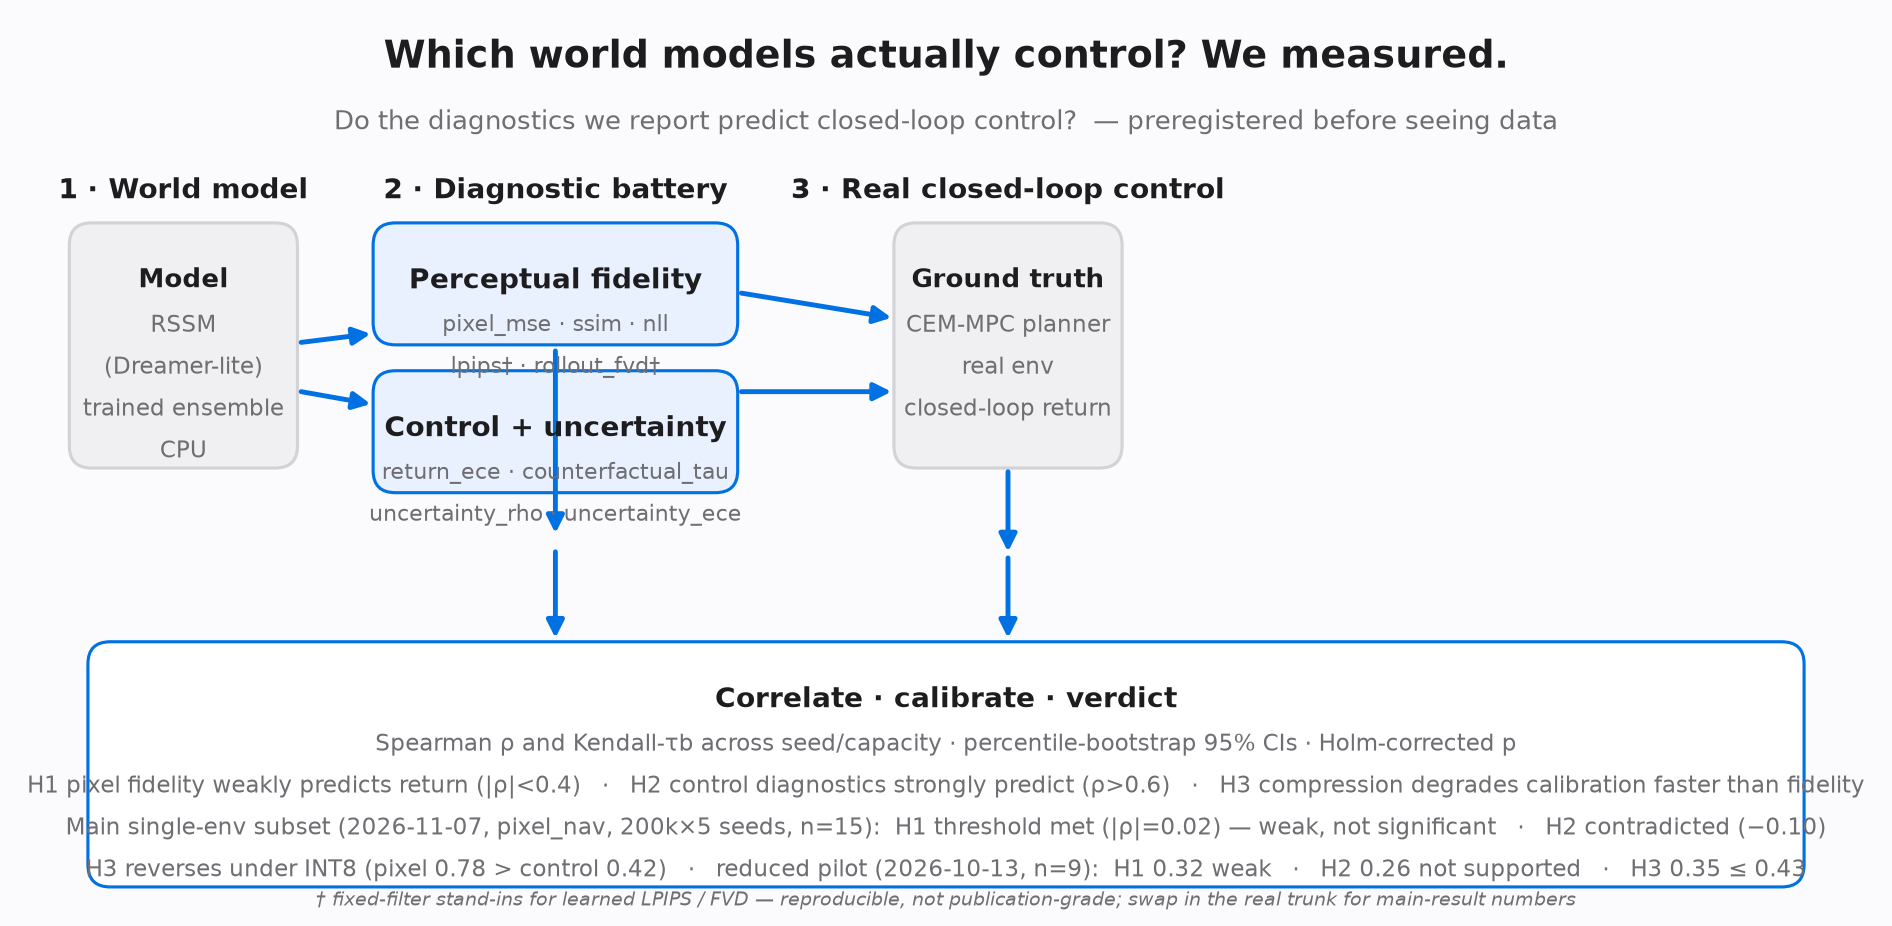
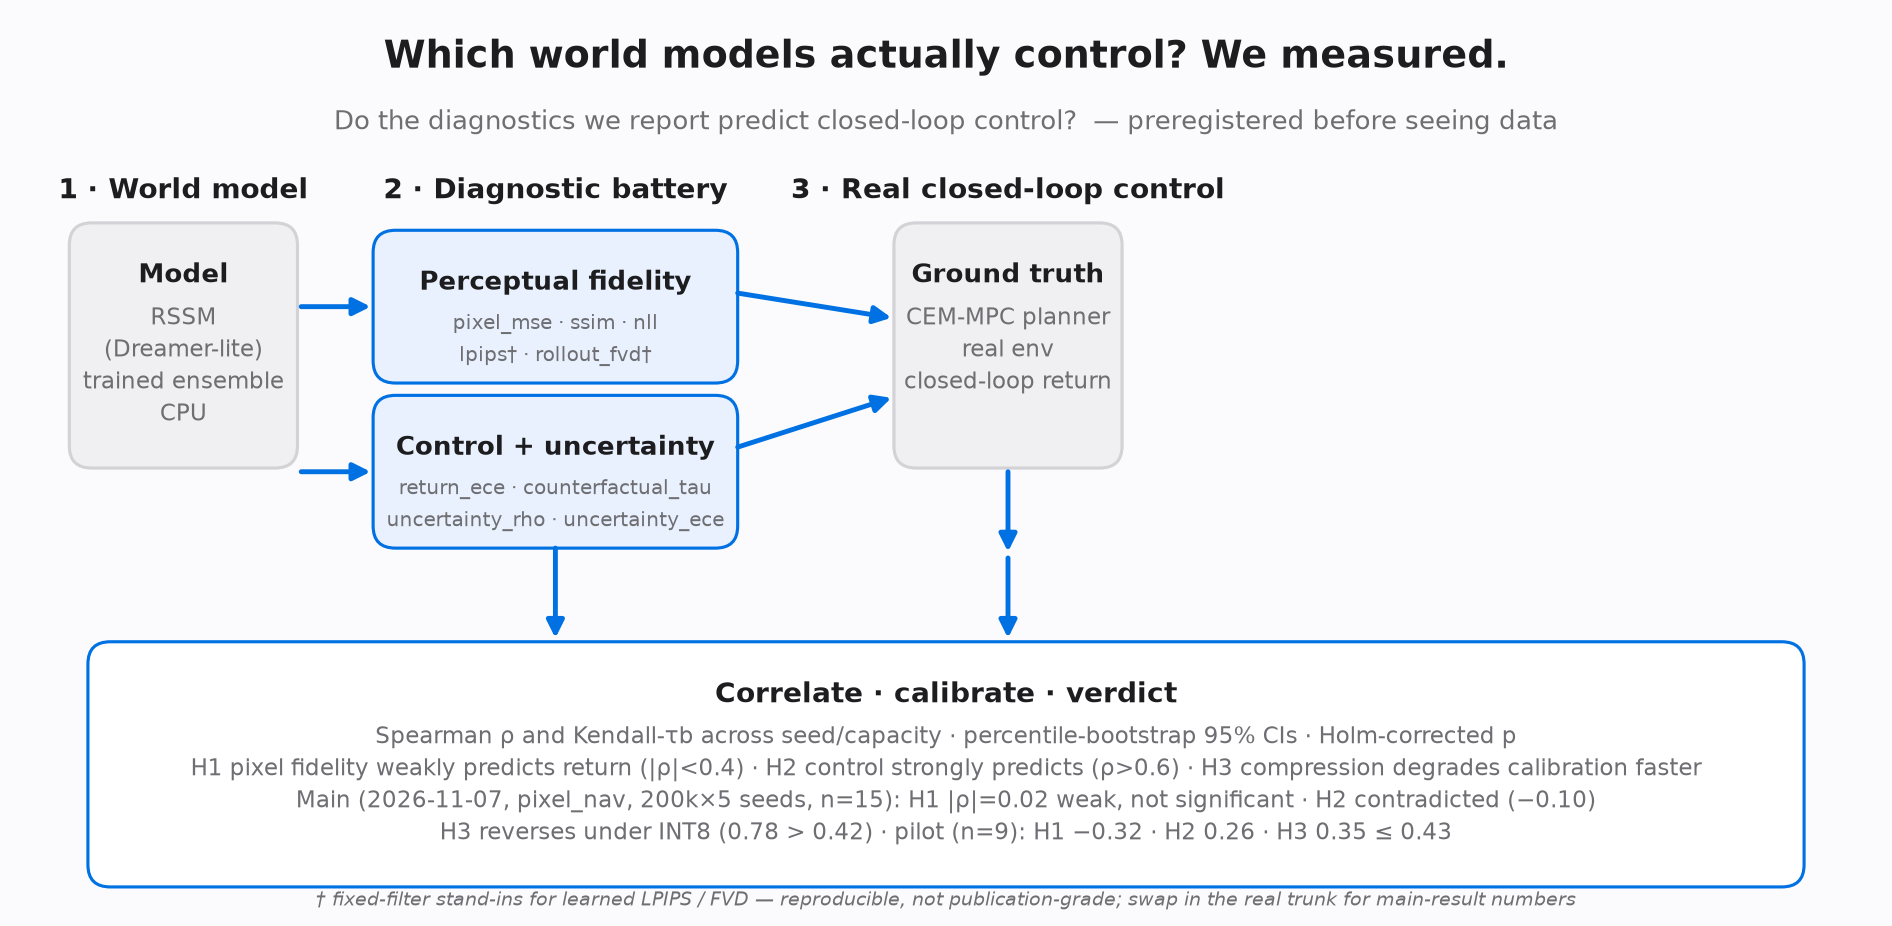
fix(figure): show pilot H1 with its sign and keep diagnostic text inside boxes

diff --git a/docs/make_figure.py b/docs/make_figure.py
@@ -35,10 +35,10 @@ def block(x, y, w, h, fc, ec, title, lines, title_fs=12.5, body_fs=10.5,
     box = FancyBboxPatch((x, y), w, h, boxstyle=f"round,pad=0.02,rounding_size={rounded}",
                          fc=fc, ec=ec, lw=1.4, mutation_aspect=1.0)
     ax.add_patch(box)
-    ax.text(x + w / 2, y + h - 0.34, title, ha="center", va="top",
+    ax.text(x + w / 2, y + h - 0.30, title, ha="center", va="top",
             fontsize=title_fs, fontweight="semibold", color=title_color)
     for i, ln in enumerate(lines):
-        ax.text(x + w / 2, y + h - 0.72 - i * 0.34, ln, ha="center", va="top",
+        ax.text(x + w / 2, y + h - 0.66 - i * 0.26, ln, ha="center", va="top",
                 fontsize=body_fs, color=GRAY)
 
 
@@ -64,10 +64,10 @@ block(0.45, 3.55, 1.8, 1.95, GRAY_BLOCK, GRAY_EDGE, "Model",
 # --- column B: diagnostics ------------------------------------------------- #
 ax.text(4.35, 5.72, "2 · Diagnostic battery", ha="center", fontsize=12.5,
         fontweight="semibold", color=INK)
-block(2.9, 4.55, 2.9, 0.95, BLUE_LT, BLUE, "Perceptual fidelity",
-      ["pixel_mse · ssim · nll", "lpips† · rollout_fvd†"], body_fs=9.8)
-block(2.9, 3.35, 2.9, 0.95, BLUE_LT, BLUE, "Control + uncertainty",
-      ["return_ece · counterfactual_tau", "uncertainty_rho · uncertainty_ece"], body_fs=9.8)
+block(2.9, 4.24, 2.9, 1.20, BLUE_LT, BLUE, "Perceptual fidelity",
+      ["pixel_mse · ssim · nll", "lpips† · rollout_fvd†"], title_fs=11.5, body_fs=8.8)
+block(2.9, 2.90, 2.9, 1.20, BLUE_LT, BLUE, "Control + uncertainty",
+      ["return_ece · counterfactual_tau", "uncertainty_rho · uncertainty_ece"], title_fs=11.5, body_fs=8.8)
 
 # --- column C: closed-loop ------------------------------------------------- #
 ax.text(8.0, 5.72, "3 · Real closed-loop control", ha="center", fontsize=12.5,
@@ -78,19 +78,19 @@ block(7.1, 3.55, 1.8, 1.95, GRAY_BLOCK, GRAY_EDGE, "Ground truth",
 # --- bottom: correlation & verdict ----------------------------------------- #
 block(0.6, 0.15, 13.8, 1.95, "#ffffff", BLUE, "Correlate · calibrate · verdict",
       ["Spearman ρ and Kendall-τb across seed/capacity · percentile-bootstrap 95% CIs · Holm-corrected p",
-       "H1 pixel fidelity weakly predicts return (|ρ|<0.4)   ·   H2 control diagnostics strongly predict (ρ>0.6)   ·   "
-       "H3 compression degrades calibration faster than fidelity",
-       "Main single-env subset (2026-11-07, pixel_nav, 200k×5 seeds, n=15):  H1 threshold met (|ρ|=0.02) — weak, not significant   ·   H2 contradicted (−0.10)",
-       "H3 reverses under INT8 (pixel 0.78 > control 0.42)   ·   reduced pilot (2026-10-13, n=9):  H1 0.32 weak   ·   H2 0.26 not supported   ·   H3 0.35 ≤ 0.43"],
+        "H1 pixel fidelity weakly predicts return (|ρ|<0.4) · H2 control strongly predicts (ρ>0.6) · "
+        "H3 compression degrades calibration faster",
+        "Main (2026-11-07, pixel_nav, 200k×5 seeds, n=15): H1 |ρ|=0.02 weak, not significant · H2 contradicted (−0.10)",
+        "H3 reverses under INT8 (0.78 > 0.42) · pilot (n=9): H1 −0.32 · H2 0.26 · H3 0.35 ≤ 0.43"],
       title_fs=12.5, body_fs=10.5)
 
 # --- arrows ---------------------------------------------------------------- #
-arrow(2.3, 4.55, 2.86, 4.62)           # A -> B perceptual
-arrow(2.3, 4.15, 2.86, 4.05)           # A -> B control
-arrow(5.85, 4.95, 7.06, 4.75)          # B perceptual -> C
-arrow(5.85, 4.15, 7.06, 4.15)          # B control -> C
-arrow(4.35, 4.48, 4.35, 3.0)           # B -> bottom
-arrow(4.35, 2.85, 4.35, 2.15)          # B -> bottom (correlate)
+arrow(2.3, 4.84, 2.86, 4.84)           # A -> B perceptual
+arrow(2.3, 3.50, 2.86, 3.50)           # A -> B control
+arrow(5.82, 4.95, 7.06, 4.75)          # B perceptual -> C
+arrow(5.82, 3.70, 7.06, 4.10)          # B control -> C
+arrow(4.35, 2.88, 4.35, 2.15)          # B -> bottom
+
 arrow(8.0, 3.5, 8.0, 2.85)             # C -> bottom
 arrow(8.0, 2.8, 8.0, 2.15)             # C -> bottom
 
